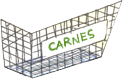
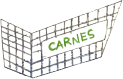
Se modifica la actividad 21 (shopping)
* Los alimentos se dibujan dentro del carrito de mercado
* Se agrega transparencia a la parte superior de los carritos de mercado
* Se eliminan las imagenes que ya no son necesarias
* Se cambia la posicion donde se pueden dibujar los alimentos dentro del
  carrito de mercado

diff --git a/src/shopping.py b/src/shopping.py
@@ -201,20 +201,20 @@ class Shopping(Activity):
                         if self.checked_milks >= 4:
                            self.checked.add([Check(self.containers[self.correct_container].rect.center)])
                            self.checked_milks = -1
-#                    self.selection.rect = ((pos), (0, 0))
                     self.selection.rect.topleft = \
                             (self.containers[self.correct_container].rect[0] \
-                            + random.randrange(0, \
+                            + random.randrange(20, \
                             self.containers[self.correct_container].size_x \
-                            - self.selection.size_x/2), \
-                            self.containers[self.correct_container].rect[1] + \
-                            random.randrange(0, \
+                            - self.selection.size_x/2 - 20), \
+                            self.containers[self.correct_container].rect[1] \
+                            + random.randrange(6, \
                             self.containers[self.correct_container].size_y \
-                            - self.selection.size_y/2))
+                            - self.selection.size_y/2 - 20))
                     self.selection.rect.size = (0, 0)
                     self.selection.kill()
                     self.selection.add(self.sprites)
-                    self.sprites.add([self.checked])
+                    self.sprites.remove([self.carts, self.checked])
+                    self.sprites.add([self.carts, self.checked])
                 else:
                     self.selection.change_size()
                     self.selection.update((self.selection.orig_x, self.selection.orig_y))
@@ -252,8 +252,5 @@ class Shopping(Activity):
             self.hand.add(self.sprites)
             self.screen.blit(self.background, (0,0))
             self.instruction_text()
-#            for i in range(0,4):
-#                pygame.draw.rect(self.background, (0, 0, 0),
-#                        self.containers[i].rect)
             self.sprites.draw(self.screen)
             pygame.display.update()
